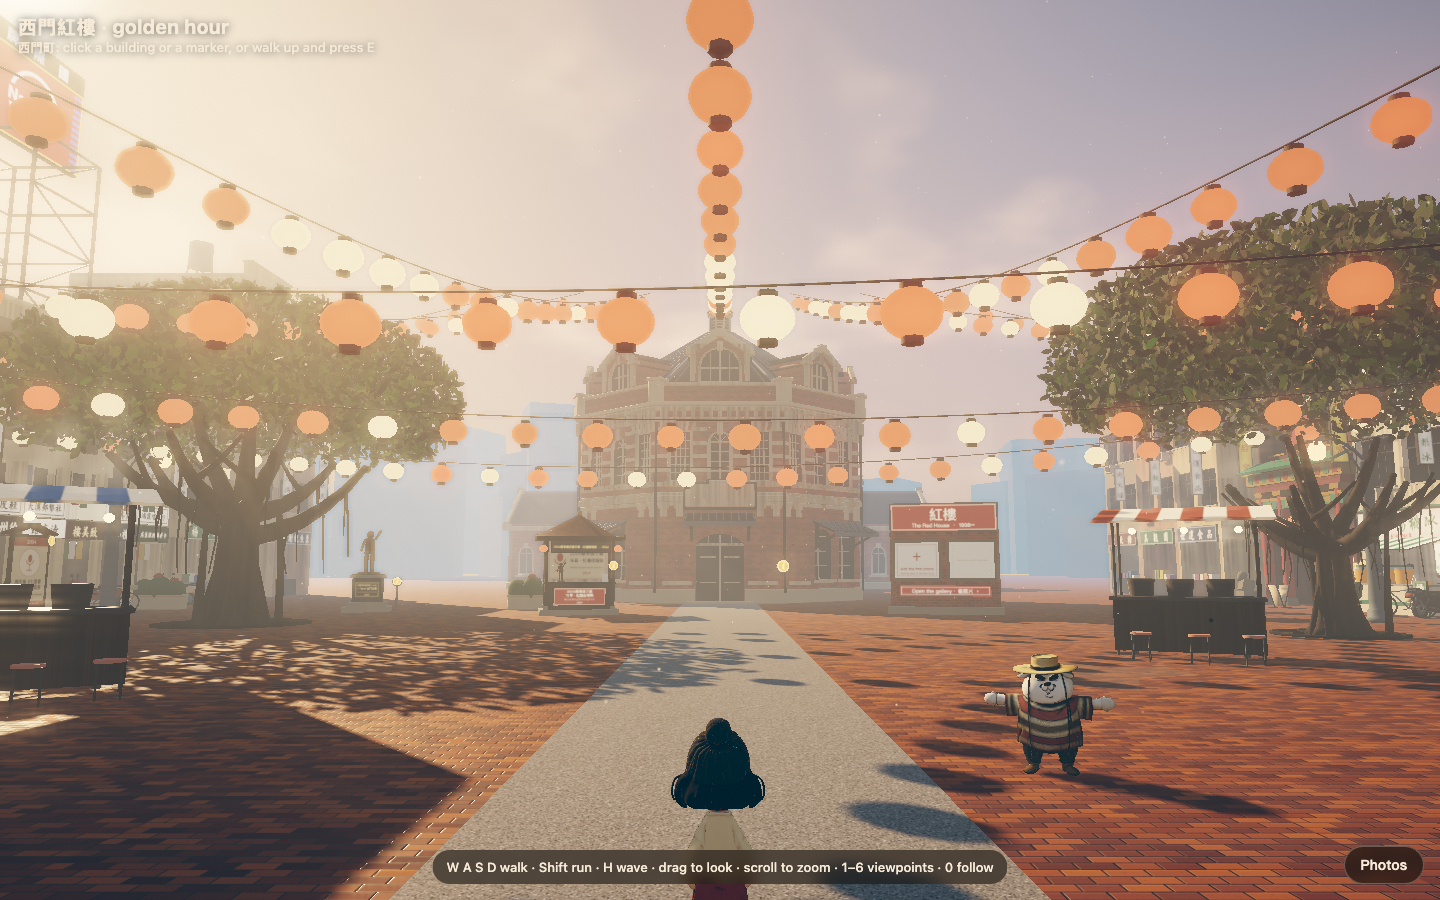
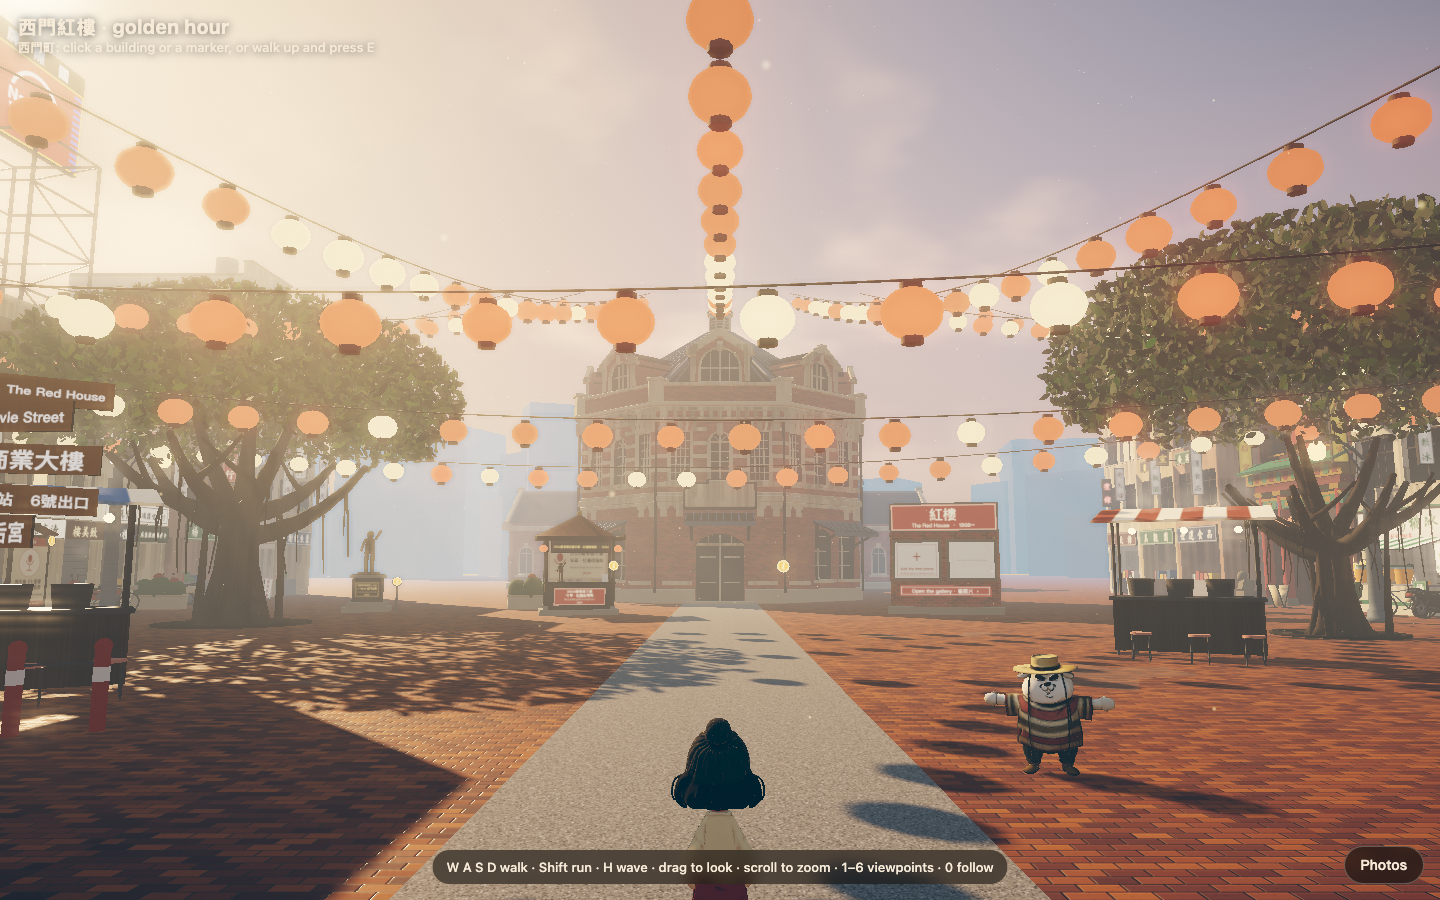
feat(remake): dense tenant signs on the other shops, street furniture round the 行人徒步區 stand
Uprights, floor-band boards, cloth banners and A-boards on the fill-in
shophouses; a pedestrians-only sign, street plates, finger-post, banner and
bollards round the pedestrian-zone photo wall.

diff --git a/remake/landmarks-ximen.js b/remake/landmarks-ximen.js
@@ -412,6 +412,7 @@ function starfruit() {
   [-1.5, -0.85, -0.2, 0.45].forEach(x => jar(K, x, 1.0, 0.5, 0.26, 0.62, M.amber, M.tileGreen)); for (let i = 0; i < 3; i++) for (let k = 0; k < 3 - i; k++) K.cyl(0.05, 0.04, 0.11, M.whiteP, 0.95 + k * 0.12 + i * 0.06, 1.055 + i * 0.11, 0.6, 8);
   K.cyl(0.05, 0.04, 0.11, M.amber, 1.25, 1.055, 0.3, 8); person(K, -0.5, -0.4, 0, { apron: true, shirt: SHIRT[1] }); person(K, 0.9, 1.6, Math.PI, { bowl: true });
   K.mesh(sign('楊桃湯', 0.42, 1.05, { vertical: true, bg: '#1f7a4a', fg: '#fff3d6', glow: 0.6 }), 1.95, 0.6, 1.1, 0.25); K.mesh(sign('鳳梨冰', 0.5, 1.5, { vertical: true, kind: 'box', font: KAI, bg: '#f6f3ea', fg: '#1f7a4a', glow: 0.7 }), x1 - 0.05, 5.6, 0.75, Math.PI / 2);
+  dressSigns(K, x0, x1 - 0.8, S.G, S.top, { yMin: S.G + 1.6, pavement: false });
   return K.done();
 }
 
@@ -462,6 +463,7 @@ function aychung() {
   K.mesh(sign('辣椒 蒜泥 烏醋', 1.1, 0.2, { bg: '#f3ecd9', fg: '#1a1a1a', glow: 0.5, oneSide: true, border: false }), 1.9, 0.6, 0.77);
   person(K, -1.9, -0.3, 0, { apron: true, reach: true, shirt: SHIRT[0] }); person(K, -0.6, -0.4, 0.1, { apron: true, shirt: SHIRT[0] });
   [[-2.4, 1.7, 2.6], [-1.5, 2.2, 3.4], [-0.5, 1.75, 2.9], [0.4, 2.25, -2.8], [1.2, 1.5, 3.3], [2.2, 2.1, -2.6], [2.6, 1.3, 3.6]].forEach(([x, z, ry]) => person(K, x, z, ry, { bowl: true }));
+  dressSigns(K, x0 + 1.0, x1, S.G, S.top, { yMin: S.G + 2.2, pavement: false });
   const g = K.done(); g.userData.pots = pots; return g;
 }
 
@@ -569,17 +571,65 @@ function american() {
   return K.done();
 }
 
+// ── 琳瑯滿目: the upper floors of an old 西門町 shophouse were let room by room, and every tenant hung a sign (CJ, 2026-11-21: 「其他店的著排也是要琳瑯滿目接近真實」).
+// Trades are the kinds the district was known for; the mix of painted boards, light boxes, neon and cloth is what the street photos show. dressSigns adds, to a front
+// that runs x0..x1 at z 0: projecting uprights at staggered heights, a board on each floor band, sometimes a cloth banner down the wall and an A-board on the pavement.
+const TRADES = ['牙科', '當舖', '眼鏡行', '鐘錶行', '西服號', '照相館', '理髮廳', '旅社', '補習班', '撞球', '冰果室', '唱片行', '委託行', '西藥房', '皮鞋店', '咖啡廳', '歌廳', '書局', '獎券行', '刻印', '電器行', '賓館', '集郵社', '樂器行', '純喫茶', '燙髮', '洋裁', '珠寶銀樓', '茶莊', '中醫診所'];
+const BOARDS = ['大減價', '冷氣開放', '學生優待', '二樓請上', '代客修改', '快速沖印', '歡迎參觀', '新貨到', '批發零售', '日夜營業'];
+const PAL = [['#b3221a', '#fff3d6'], ['#f4f0e4', '#b3221a'], ['#f4f0e4', '#141414'], ['#f2c832', '#b3221a'], ['#1f4f9c', '#ffffff'], ['#1f5a3a', '#fff3d6'], ['#141414', '#ffd24a'], ['#f4f0e4', '#1f4f9c'], ['#7a1a22', '#f1dfb4']];
+let tradeI = 3;
+function dressSigns(K, x0, x1, G, top, o = {}) {
+  const w = x1 - x0, n = o.n || Math.max(2, Math.round(w / 1.6)), fh = o.fh || 3.1, yMin = o.yMin || G + 1.2;
+  for (let i = 0; i < n; i++) {                                                                                  // uprights off the wall, each on two brackets
+    const t = TRADES[tradeI++ % TRADES.length], c = pick(PAL), h = 0.5 * [...t].length + 0.25 + rr(0, 0.5), x = x0 + (i + rr(0.25, 0.75)) * w / n, y = rr(yMin + h / 2, Math.max(yMin + h / 2 + 0.1, top - h / 2 - 0.2)), k = rnd();
+    K.mesh(sign(t, rr(0.48, 0.66), h, { vertical: true, kind: k < 0.45 ? 'box' : k < 0.62 ? 'neon' : 'paint', font: k < 0.45 ? (rnd() < 0.5 ? KAI : FONT) : k < 0.62 ? WEI : KAI, bg: k >= 0.45 && k < 0.62 ? '#151515' : c[0], fg: k >= 0.45 && k < 0.62 ? pick(['#ff5a48', '#ffd24a', '#7fd8ff', '#7dff9a']) : c[1], glow: k >= 0.45 && k < 0.62 ? 1.5 : 0.6 }), x, y, rr(0.6, 0.95), Math.PI / 2);
+    [y - h / 2 + 0.25, y + h / 2 - 0.25].forEach(yy => K.bx(x - 0.02, x + 0.02, yy, yy + 0.04, 0, 0.5, M.frame));
+  }
+  const floors = Math.max(1, Math.round((top - G) / fh));
+  for (let f = 1; f < floors; f++) if (rnd() < 0.75) { const t = TRADES[tradeI++ % TRADES.length], c = pick(PAL), bw = rr(w * 0.4, w * 0.8);       // a board on the band between floors
+    K.mesh(sign(t, bw, 0.62, { bg: c[0], fg: c[1], font: rnd() < 0.5 ? KAI : WEI, spread: true, rtl: rnd() < 0.4, glow: 0.5, oneSide: true, depth: 0.05 }), rr(x0 + bw / 2 + 0.1, x1 - bw / 2 - 0.1), G + f * fh + 0.33, 0.1); }
+  if (rnd() < 0.5) { const t = pick(BOARDS), h = Math.min(top - G - 1.2, 0.62 * [...t].length + 0.5);                                                 // a cloth banner tied down the wall
+    K.mesh(sign(t, 0.62, h, { vertical: true, kind: 'cloth', font: WEI, bg: pick(['#b3221a', '#f2c832', '#efe9da']), fg: pick(['#141414', '#7a120c']), glow: 0.35, depth: 0.02, noCast: true }), rr(x0 + 0.5, x1 - 0.5), top - h / 2 - 0.3, 0.13); }
+  if (o.pavement !== false && rnd() < 0.6) { const t = pick(BOARDS), c = pick(PAL), x = rr(x0 + 0.6, x1 - 0.6);                                  // an A-board out on the pavement
+    const b = K.mesh(sign(t, 0.5, 0.95, { vertical: true, bg: c[0], fg: c[1], glow: 0.4, depth: 0.04 }), x, 0.52, 1.3, rr(-0.3, 0.3)); b.rotation.x = -0.18; }
+}
+
 // ══ the fill-in shophouses between and beyond the landmarks (not clickable) ═══════════════════════════════
 function fill() {
   const K = Kit('ximen-fill'), walls = [M.cream, M.concLt, M.pink, M.conc, M.ochre, M.white];
   const unit = (x, z, ry, w, floors, text, hue) => { K.at(x, 0, z, ry); const S = shophouse(K, w, floors, pick(walls), { depth: 9, ground: 3.6 });
     K.bx(S.x0 + 0.4, S.x1 - 0.4, 0.2, 3.0, -2.58, -2.54, M.shopLit); K.bx(S.x0 + 0.35, S.x1 - 0.9, 0, 0.9, -0.9, -0.3, pick([M.wood, M.steel, M.woodDk])); for (let k = 0; k < 5; k++) K.bx(S.x0 + 0.5 + k * 0.4, S.x0 + 0.8 + k * 0.4, 0.9, rr(1.05, 1.4), -0.8, -0.4, pick(CLOTH));
-    K.mesh(sign(text, w - 0.5, 0.8, { bg: `hsl(${hue},50%,24%)`, fg: '#f6ecd2', font: hue % 3 ? KAI : WEI, spread: true, glow: 0.6, oneSide: true }), 0, 3.15, 0.08); K.mesh(sign(text, 0.55, 0.62 * [...text].length, { vertical: true, kind: 'box', font: KAI, bg: '#f4f0e4', fg: `hsl(${hue},70%,28%)`, glow: 0.45 }), S.x1 - 0.5, 6.2, 0.75, Math.PI / 2); K.at(); };
+    K.mesh(sign(text, w - 0.5, 0.8, { bg: `hsl(${hue},50%,24%)`, fg: '#f6ecd2', font: hue % 3 ? KAI : WEI, spread: true, glow: 0.6, oneSide: true }), 0, 3.15, 0.08); K.mesh(sign(text, 0.55, 0.62 * [...text].length, { vertical: true, kind: 'box', font: KAI, bg: '#f4f0e4', fg: `hsl(${hue},70%,28%)`, glow: 0.45 }), S.x1 - 0.5, 6.2, 0.75, Math.PI / 2); dressSigns(K, S.x0, S.x1 - 0.9, S.G, S.top); K.at(); };
   const R = -Math.PI / 2, L = Math.PI / 2;
   [[1.5, 4, '世運食品', 210], [-2.7, 4, '美觀園', 150], [-7, 4, '老天祿', 8]].forEach(([z, f, t, h]) => unit(23.5, z, R, 4.3, f, t, h));
   [[60.3, 3, '雪王冰淇淋', 350], [64.6, 4, '大車輪', 28]].forEach(([z, f, t, h]) => unit(23.5, z, R, 4.3, f, t, h));
   [[4.5, 3, '楊記冰店', 150], [0.2, 4, '鴨肉扁', 8], [-4.1, 3, '謝謝魷魚羹', 210]].forEach(([z, f, t, h]) => unit(-23.5, z, L, 4.3, f, t, h));
   [[57.6, 4, '金園排骨', 28], [61.9, 3, '天天利', 350], [66.2, 4, '張記排骨酥', 150]].forEach(([z, f, t, h]) => unit(-23.5, z, L, 4.3, f, t, h));
+  return K.done();
+}
+
+// ══ round the 行人徒步區 photo wall: what marks the mouth of a car-free street (CJ, 2026-11-21: 「這個行人徒步區的招牌也要更豐富」) ═══════════════════════
+// A round blue pedestrians-only sign with its plate, green street-name plates for the two streets of the zone, a brown finger-post to the sights, a cloth banner
+// overhead between the two posts, bollards and a chain across the road. Wording on the plate and banner is ours; the street names and sights are the district's own.
+function pedZone() {
+  const K = Kit('ped-zone-dressing'), pole = (x, h) => { K.cyl(0.05, 0.05, h, M.steel, x, h / 2, 0, 10); K.cyl(0.16, 0.2, 0.08, M.steelDk, x, 0.04, 0, 12); };
+  const disc = (r, draw, glowI) => { const cv = document.createElement('canvas'); cv.width = cv.height = 256; draw(cv.getContext('2d'), 256); const t = new T.CanvasTexture(cv); t.encoding = T.sRGBEncoding; t.anisotropy = 8;
+    const m = new T.Mesh(new T.CircleGeometry(r, 36), new T.MeshStandardMaterial({ map: t, roughness: 0.5, emissiveMap: t, emissive: new T.Color(1, 1, 1), emissiveIntensity: glowI, side: T.DoubleSide })); m.castShadow = true; return m; };
+  pole(-2.3, 4.6); pole(2.3, 4.6);
+  K.mesh(sign('西門町行人徒步區', 4.4, 0.7, { kind: 'cloth', font: WEI, bg: '#b3221a', fg: '#ffe14a', spread: true, glow: 0.5, depth: 0.03 }), 0, 4.15, 0.02);
+  for (let i = 0; i < 13; i++) { const x = -2.2 + i * 0.367; K.box(0.26, 0.3, 0.01, pick([M.red, M.gold, M.blue, M.tileGreen, M.whiteP]), x, 3.55 - Math.sin(i / 12 * Math.PI) * 0.18, 0.02, 0, 0, Math.PI / 4); }   // a string of pennants under the banner
+  // the left post: the round sign, its plate, the street names
+  K.mesh(disc(0.42, (g, n) => { g.fillStyle = '#0a4fa8'; g.fillRect(0, 0, n, n); g.strokeStyle = '#fff'; g.lineWidth = 10; g.beginPath(); g.arc(n / 2, n / 2, n / 2 - 9, 0, 7); g.stroke(); g.fillStyle = '#fff'; g.lineCap = 'round'; g.strokeStyle = '#fff';
+    [[0.4, 1], [0.64, 0.72]].forEach(([x, k]) => { const cx = n * x, top = n * (0.5 - 0.27 * k); g.beginPath(); g.arc(cx, top, n * 0.055 * k, 0, 7); g.fill(); g.lineWidth = n * 0.06 * k; g.beginPath(); g.moveTo(cx, top + n * 0.08 * k); g.lineTo(cx, top + n * 0.3 * k); g.stroke();
+      g.lineWidth = n * 0.045 * k; g.beginPath(); g.moveTo(cx, top + n * 0.3 * k); g.lineTo(cx - n * 0.07 * k, top + n * 0.52 * k); g.moveTo(cx, top + n * 0.3 * k); g.lineTo(cx + n * 0.07 * k, top + n * 0.52 * k); g.moveTo(cx - n * 0.09 * k, top + n * 0.2 * k); g.lineTo(cx + n * 0.09 * k, top + n * 0.17 * k); g.stroke(); }); }, 0.6), -2.3, 3.0, 0.07);
+  K.mesh(sign('行人徒步區', 0.9, 0.3, { font: FONT, weight: 800, bg: '#ffffff', fg: '#141414', border: false, glow: 0.4, depth: 0.03 }), -2.3, 2.36, 0.07);
+  K.mesh(sign('車輛禁止進入', 0.9, 0.26, { font: FONT, weight: 800, bg: '#ffffff', fg: '#c21f1a', border: false, glow: 0.4, depth: 0.03 }), -2.3, 2.06, 0.07);
+  K.mesh(sign('漢中街', 1.15, 0.36, { font: FONT, weight: 800, bg: '#0f6b3c', fg: '#ffffff', sub: 'Hanzhong St.', border: false, glow: 0.6, depth: 0.03 }), -2.3 + 0.62, 3.75, 0);
+  K.mesh(sign('峨眉街', 1.15, 0.36, { font: FONT, weight: 800, bg: '#0f6b3c', fg: '#ffffff', sub: 'Emei St.', border: false, glow: 0.6, depth: 0.03 }), -2.3, 3.36, 0.62, Math.PI / 2);
+  // the right post: a finger-post to the sights of this plaza
+  [['西門紅樓　The Red House', 3.55, 0.2], ['電影街　Movie Street', 3.15, -0.5], ['萬年商業大樓', 2.75, -0.15], ['捷運西門站　6號出口', 2.35, 0.45], ['成都路　天后宮', 1.95, -0.7]].forEach(([t, y, ry]) => { const m = K.mesh(sign(t, 1.7, 0.32, { font: FONT, weight: 800, bg: '#6b3f1c', fg: '#ffffff', border: false, glow: 0.5, depth: 0.03 }), 2.3 + Math.cos(ry) * 0.9, y, -Math.sin(ry) * 0.9, ry); });
+  // bollards and a chain across the mouth of the street
+  for (let i = 0; i < 5; i++) { const x = -3.4 + i * 0.55 - (i > 1 ? 0 : 0), bx = i < 2 ? -3.6 + i * 0.7 : 2.9 + (i - 2) * 0.7; K.cyl(0.07, 0.07, 0.8, M.red, bx, 0.4, 1.1, 10); K.cyl(0.075, 0.075, 0.14, M.whiteP, bx, 0.55, 1.1, 10); K.sph(0.08, M.red, bx, 0.82, 1.1); if (i !== 1 && i !== 4) K.box(0.7, 0.025, 0.025, M.steelDk, bx + 0.35, 0.66, 1.1); }
   return K.done();
 }
 
@@ -610,7 +660,7 @@ G['zhonghua-market'] = put(zhonghua(), -XE, 30, L); put(G['zhonghua-market'].use
 G['lions-plaza'] = put(lions(), 13.5, 63, Math.PI);
 G['lai-lai'] = put(lailai(), -13.5, 63, Math.PI);
 G['pedestrian-zone-exit6'] = put(mrt(), -11, 53.5, Math.PI);
-put(fill(), 0, 0, 0); put(tracks(), 0, 0, 0);
+put(fill(), 0, 0, 0); put(tracks(), 0, 0, 0); put(pedZone(), -10.5, 38.5, 0.45);
 if (opt.redHouse) G['red-house'] = opt.redHouse;
 // steam off the noodle pots and smoke off the incense burner
 G['ay-chung'].userData.pots.forEach(([x, z]) => E.steamSrc.push(world(G['ay-chung'], x, 1.55, z))); E.steamSrc.push(world(G['tianhou-temple'], 0, 1.5, -0.7));

diff --git a/docs/signage/sources.md b/docs/signage/sources.md
@@ -84,6 +84,13 @@ CJ, 2026-11-21: 「很多沒有按照真實招牌」. The first pass drew the si
 
 Third pass, the fronts (CJ, 2026-11-21: "Yes, rebuild fronts"). Rebuilt from the same photos: 蜂大 in red brick with the white panel in its second-floor window, 南美 in small white tile with a railed roof terrace (S20); 天后宮 as three storeys of dark red brick, the gate under a carved gilt eave and six lanterns, the name over a round red disc on the second floor, a balcony behind two columns on the third, a swallow-tail roof on top (S25); 萬年 in green with narrow white ribs, the name down the flat front under the oval, four tenant signs hung at the sides, a cream band over the ground floor (S14); 獅子林 in gold panels with a rounded corner tower, two dark glass strips, and the crown sign with two globe lamps on top (S16, S26, S29). Simplified, not copied: the temple's emblem is a plain red disc and its roof dragons are blocks; the 蜂大 mark is a plain hexagon; the 獅子林 crown lettering is ours. 萬年's tenant signs mix eras (萬年冰宮 early, 湯姆熊 and U2電影館 later).
 
+## Fourth pass: the other shops and the pedestrian-zone stand
+
+CJ, 2026-11-21: 「其他店的著排也是要琳瑯滿目接近真實 還有這個行人徒步區的招牌也要更豐富」.
+
+- The eleven fill-in shophouses and the upper floors of the 阿宗 and 楊桃冰 buildings now carry tenant signs the way old 西門町 fronts did: projecting uprights at staggered heights (painted boards, light boxes, neon), a board on the band between floors, sometimes a cloth banner down the wall and an A-board on the pavement (`dressSigns` in `remake/landmarks-ximen.js`). The trades (牙科, 當舖, 旅社, 補習班, 撞球, 冰果室, 委託行, 純喫茶 …) are the kinds the district was known for: inferred from general knowledge, no single photo behind each sign. The density follows S4 and S14.
+- Round the 行人徒步區 photo wall (`pedZone`): a round blue pedestrians-only sign with two plates, green street-name plates for 漢中街 and 峨眉街 (both in the car-free zone), a brown finger-post to 西門紅樓, 電影街, 萬年商業大樓, 捷運西門站 6號出口 and 成都路 天后宮, a red cloth banner 西門町行人徒步區 with pennants between two posts, and bollards with a chain. The sign types are standard Taiwan road signage; the plate and banner wording is ours (guess), the street and place names are real.
+
 ## Poster pictures
 
 CJ, 2026-11-21: 「需要圖的話也可以去midjourney做」, then "You pick". The painted pictures on the 豪華 billboard, the two poster cases, the three 獅子林 posters and the 來來 poster are Midjourney images made for this scene, in `asset/textures/posters/` (`billboard`, `case-a`, `case-b`, `kids`, `army`, `denim`, `lailai`). They show generic faces, no real actor and no lettering; the titles on top are still drawn in code. Each prompt asked for a hand-painted Taiwanese cinema poster of the period; the pictures are in period style, not copies of the real posters of those films. Jobs: `0b22f3d5` (images 2, 0, 3), `ab6bc0bf` (2), `7fccaf54` (0), `b1074ce2` (2), `bc9efd63` (2).
